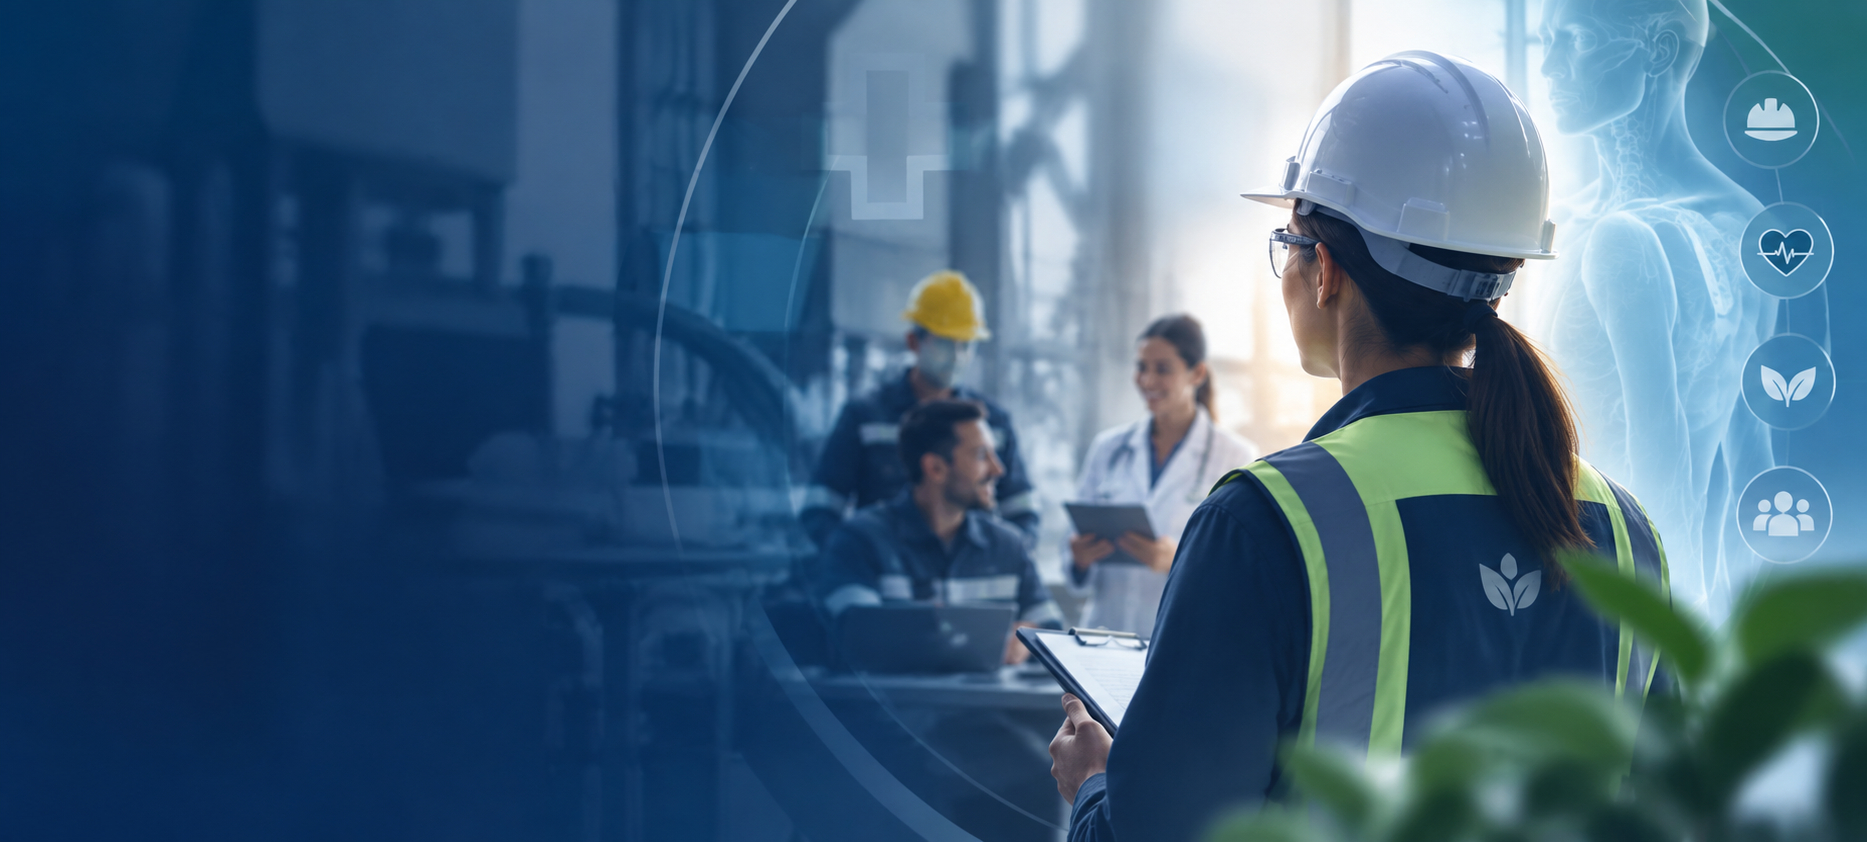
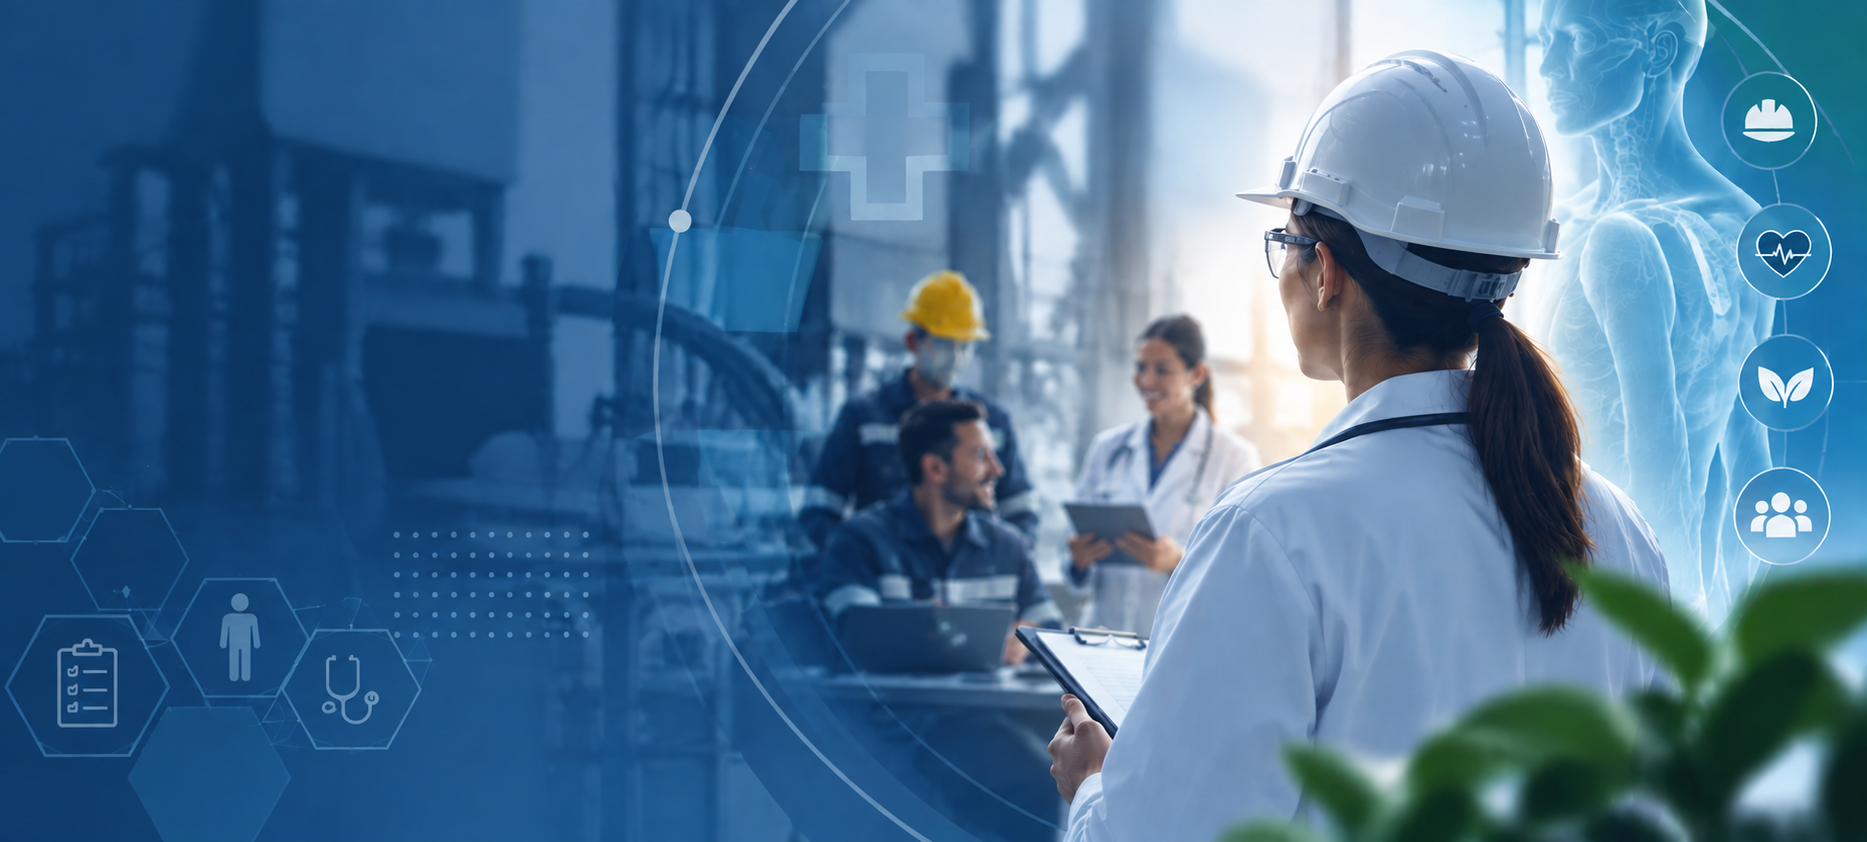
up up

diff --git a/css/styles.css b/css/styles.css
@@ -702,10 +702,10 @@ header {
 .nav-socials a:hover,
 .nav-socials a:focus-visible {
     color: var(--accent);
-    background: rgba(var(--accent-rgb), 0.14);
-    transform: translateY(-2px) scale(1.08);
+    background: transparent;
+    transform: none;
     text-decoration: none;
-    box-shadow: 0 6px 18px rgba(var(--accent-rgb), 0.18);
+    box-shadow: none;
 }
 
 .nav-link {
@@ -719,9 +719,10 @@ header {
 
 .nav-link:hover {
     color: var(--accent);
-    background-color: rgba(var(--accent-rgb), 0.12);
-    border-radius: var(--radius-lg);
+    background-color: transparent;
+    border-radius: 0;
     text-decoration: none;
+    box-shadow: none;
 }
 
 .nav-link::after {
@@ -1628,29 +1629,30 @@ footer {
     display: inline-flex;
     align-items: center;
     justify-content: center;
-    width: 2.2rem;
-    height: 2.2rem;
-    background-color: rgba(255, 255, 255, 0.12);
-    border-radius: 50%;
-    transition: all 0.25s ease;
+    width: auto;
+    height: auto;
+    background-color: transparent;
+    border-radius: 0;
+    transition: color 0.25s ease;
     color: var(--white);
-    font-size: 0.9rem;
-    border: 1px solid rgba(255, 255, 255, 0.08);
+    font-size: 1rem;
+    border: none;
+    padding: 0;
 }
 
 .social-links a:hover {
-    background-color: rgba(var(--accent-rgb), 0.15);
+    background-color: transparent;
     color: var(--accent);
-    transform: translateY(-2px) scale(1.08);
-    box-shadow: 0 8px 20px rgba(0, 0, 0, 0.12);
+    transform: none;
+    box-shadow: none;
 }
 
 .social-links i {
-    transition: transform 0.25s ease;
+    transition: none;
 }
 
 .social-links a:hover i {
-    transform: scale(1.15);
+    transform: none;
 }
 
 .footer-bottom {
